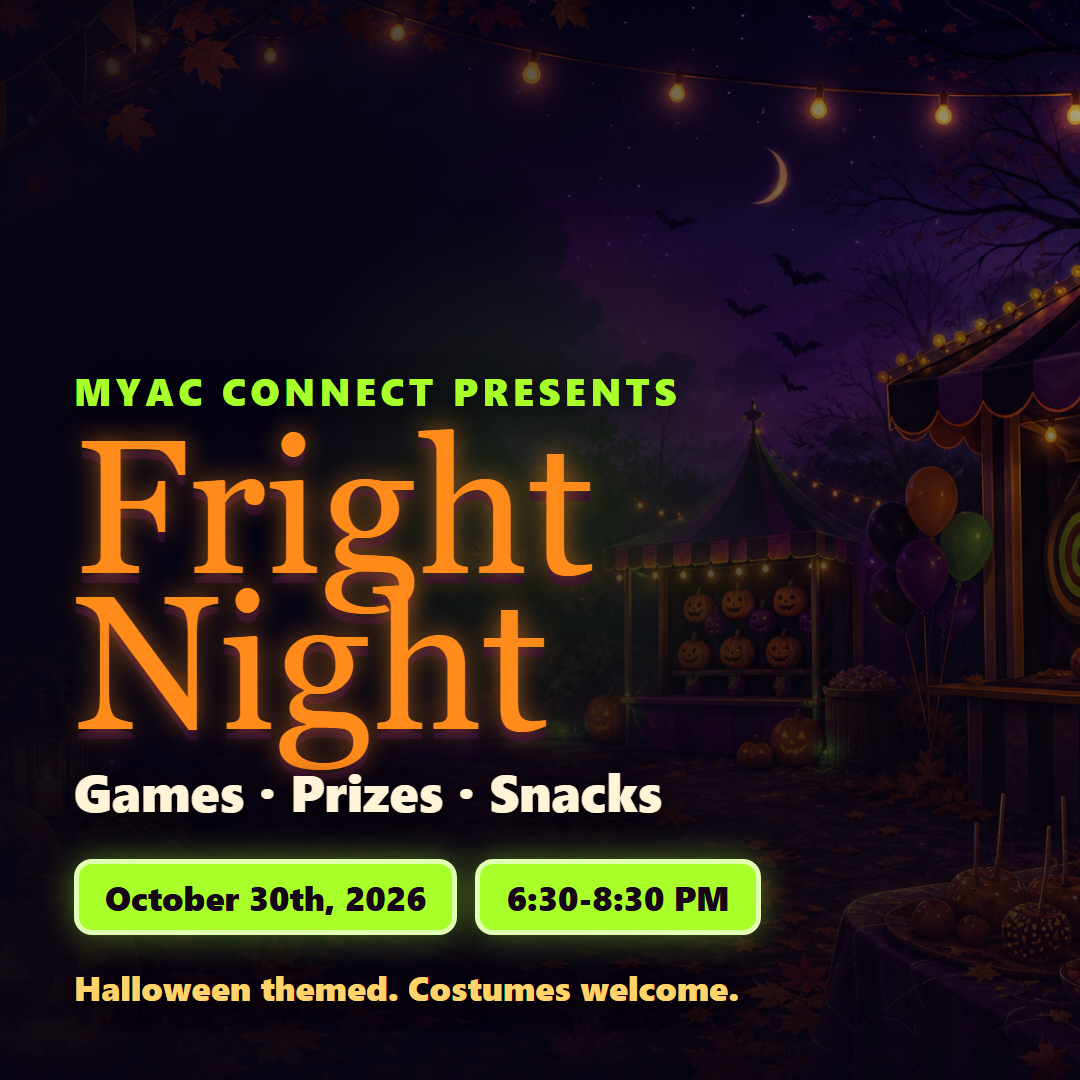
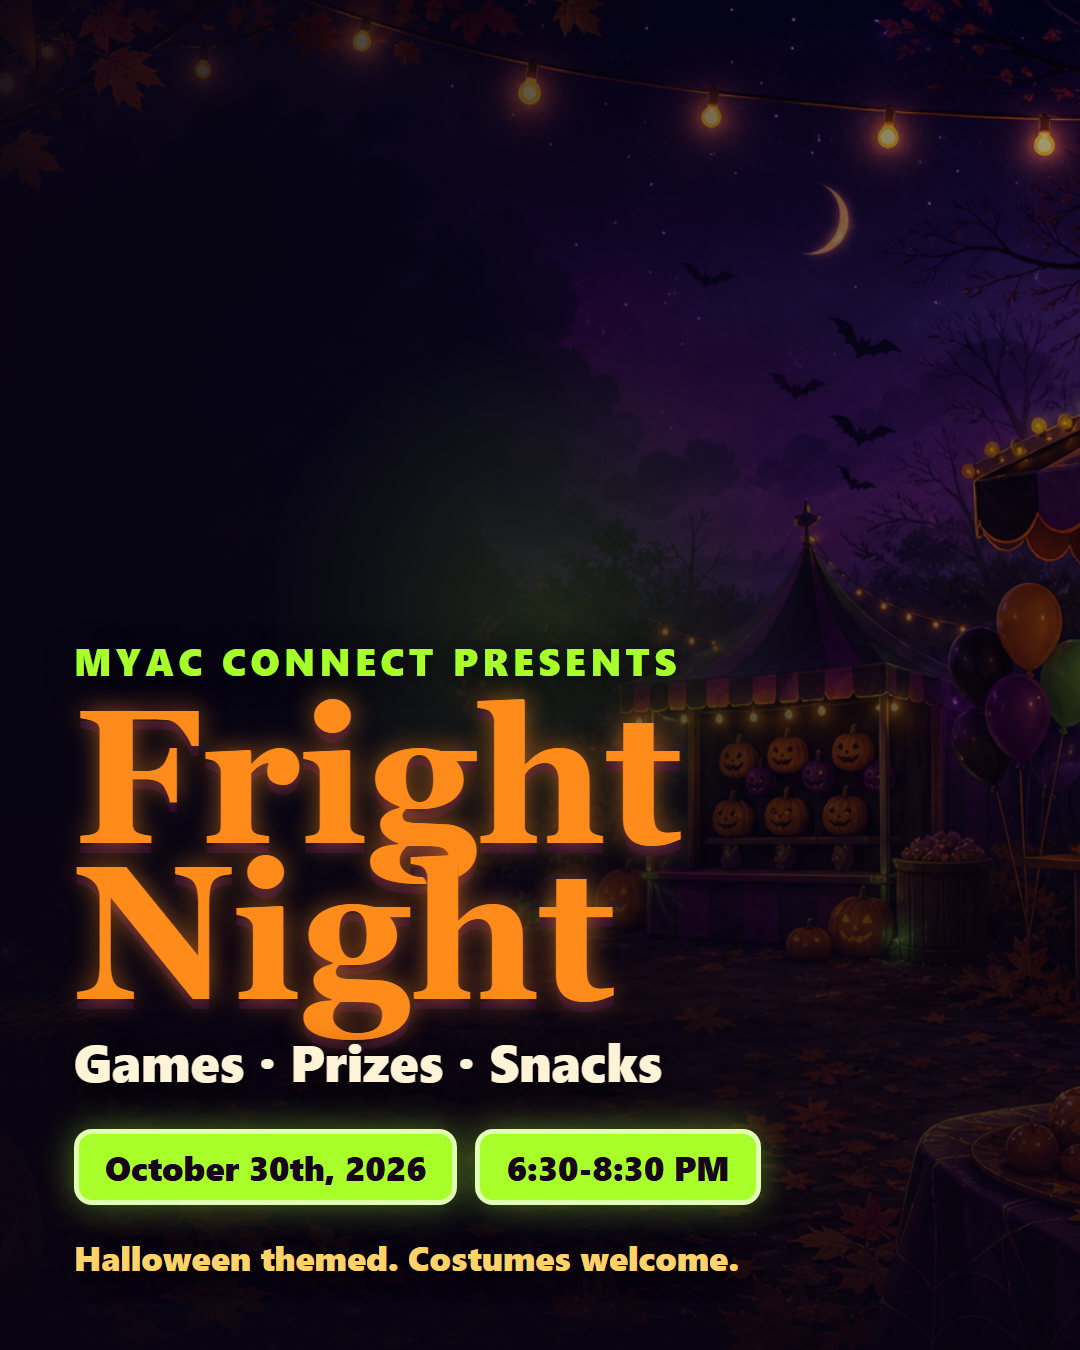
Refine branding and promo previews

diff --git a/index.html b/index.html
@@ -17,7 +17,7 @@
     <link rel="preconnect" href="https://fonts.googleapis.com">
     <link rel="preconnect" href="https://fonts.gstatic.com" crossorigin>
     <link
-      href="https://fonts.googleapis.com/css2?family=Creepster&family=Inter:wght@500;600;700;800;900&display=swap"
+      href="https://fonts.googleapis.com/css2?family=Inria+Serif:wght@700&family=Inter:wght@500;600;700;800;900&display=swap"
       rel="stylesheet"
     >
     <link rel="stylesheet" href="styles.css">
@@ -25,7 +25,7 @@
   <body>
     <header class="site-header" aria-label="Primary navigation">
       <a class="brand" href="#top" aria-label="MYAC Connect Fright Night home">
-        <span class="brand-mark">M</span>
+        <img class="brand-mark" src="assets/myac-profile.svg" alt="" aria-hidden="true">
         <span>MYAC Connect</span>
       </a>
       <nav>
@@ -133,17 +133,17 @@
           <p class="eyebrow">Promotion Kit</p>
           <h2 id="promotions-title">Share Fright Night on Instagram.</h2>
           <p>
-            Use the square post for feeds and stories, and the vertical reel artwork for short-form promotion.
+            Use the portrait post for feeds and stories, and the vertical reel artwork for short-form promotion.
           </p>
         </div>
         <div class="promo-grid">
           <article class="promo-card">
-            <div class="promo-frame square">
+            <div class="promo-frame portrait">
               <img src="assets/fright-night-instagram-post.png" alt="Instagram post promoting MYAC Connect Fright Night on October 30th, 2026 from 6:30-8:30 PM.">
             </div>
             <div class="promo-copy">
               <h3>Instagram Post</h3>
-              <p>Square feed graphic sized for Instagram posting.</p>
+              <p>Portrait feed graphic sized for Instagram posting.</p>
               <a
                 class="button button-secondary"
                 href="https://drive.google.com/file/d/1U34uGFmjJN_rvC1XFx74bUF60xqieV3_/view?usp=sharing"

diff --git a/styles.css b/styles.css
@@ -69,12 +69,9 @@ a {
 }
 
 .brand-mark {
-  display: grid;
   width: 2.2rem;
   height: 2.2rem;
-  place-items: center;
-  color: #160716;
-  background: var(--green);
+  object-fit: cover;
   border-radius: 0.45rem;
   box-shadow: 0 0 24px rgba(168, 255, 42, 0.38);
 }
@@ -143,10 +140,10 @@ p {
 
 h1 {
   margin-bottom: 1rem;
-  font-family: Creepster, Georgia, serif;
-  font-size: clamp(5rem, 16vw, 12rem);
+  font-family: "Inria Serif", Georgia, serif;
+  font-size: clamp(4.6rem, 14vw, 11rem);
   line-height: 0.82;
-  font-weight: 400;
+  font-weight: 700;
   color: var(--orange);
   text-shadow:
     0 0 18px rgba(255, 139, 26, 0.52),
@@ -397,8 +394,8 @@ h3 {
   border-radius: 0.55rem;
 }
 
-.promo-frame.square {
-  aspect-ratio: 1;
+.promo-frame.portrait {
+  aspect-ratio: 4 / 5;
 }
 
 .promo-frame.vertical {

diff --git a/promo/post.html b/promo/post.html
@@ -6,7 +6,7 @@
     <title>Fright Night Instagram Post</title>
     <link rel="preconnect" href="https://fonts.googleapis.com">
     <link rel="preconnect" href="https://fonts.gstatic.com" crossorigin>
-    <link href="https://fonts.googleapis.com/css2?family=Creepster&family=Inter:wght@700;800;900&display=swap" rel="stylesheet">
+    <link href="https://fonts.googleapis.com/css2?family=Inria+Serif:wght@700&family=Inter:wght@700;800;900&display=swap" rel="stylesheet">
     <link rel="stylesheet" href="promo.css">
   </head>
   <body>

diff --git a/promo/reel.html b/promo/reel.html
@@ -6,7 +6,7 @@
     <title>Fright Night Instagram Reel</title>
     <link rel="preconnect" href="https://fonts.googleapis.com">
     <link rel="preconnect" href="https://fonts.gstatic.com" crossorigin>
-    <link href="https://fonts.googleapis.com/css2?family=Creepster&family=Inter:wght@700;800;900&display=swap" rel="stylesheet">
+    <link href="https://fonts.googleapis.com/css2?family=Inria+Serif:wght@700&family=Inter:wght@700;800;900&display=swap" rel="stylesheet">
     <link rel="stylesheet" href="promo.css">
   </head>
   <body>

diff --git a/promo/promo.css b/promo/promo.css
@@ -32,7 +32,7 @@ body {
 
 .post {
   width: 1080px;
-  height: 1080px;
+  height: 1350px;
 }
 
 .reel {
@@ -100,9 +100,9 @@ h1 {
   max-width: 880px;
   margin: 14px 0 22px;
   color: var(--orange);
-  font-family: Creepster, Georgia, serif;
+  font-family: "Inria Serif", Georgia, serif;
   font-size: 190px;
-  font-weight: 400;
+  font-weight: 700;
   line-height: 0.82;
   text-shadow:
     0 0 26px rgba(255, 139, 26, 0.58),

diff --git a/tools/export-promos.js b/tools/export-promos.js
@@ -9,7 +9,7 @@ const captures = [
     selector: ".post",
     output: "assets/fright-night-instagram-post.png",
     width: 1080,
-    height: 1080,
+    height: 1350,
   },
   {
     file: "promo/reel.html",
